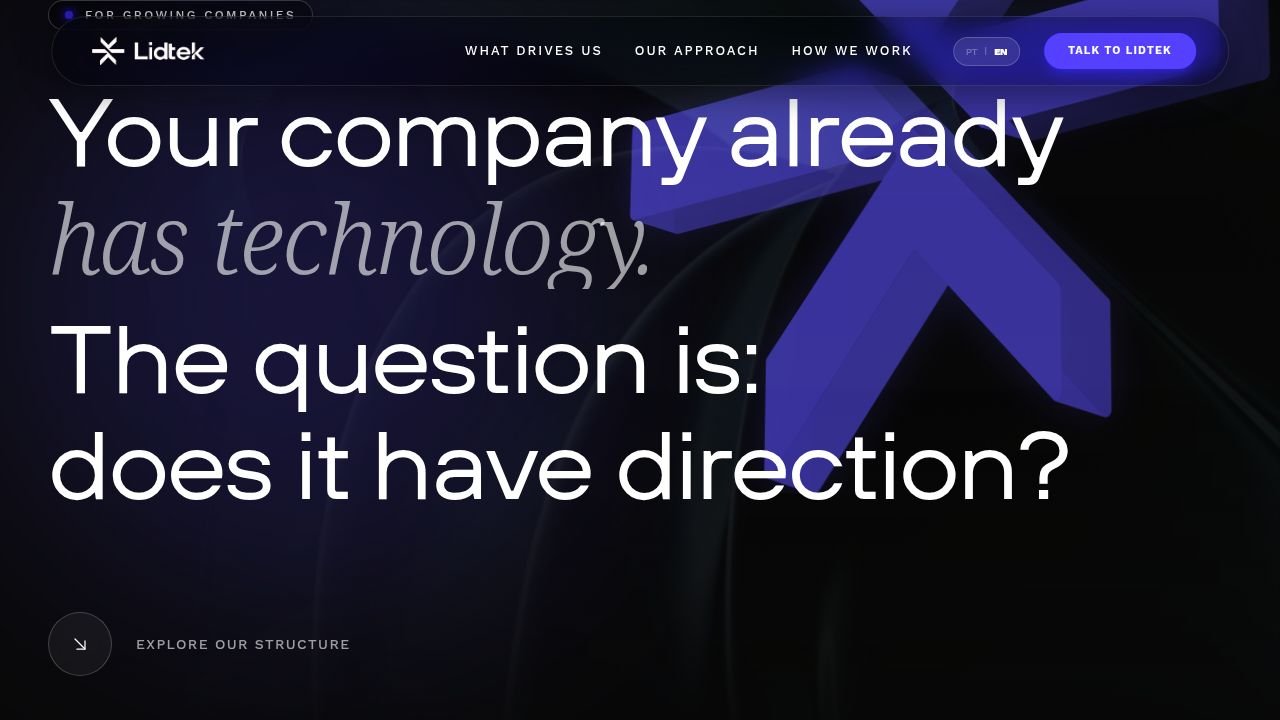
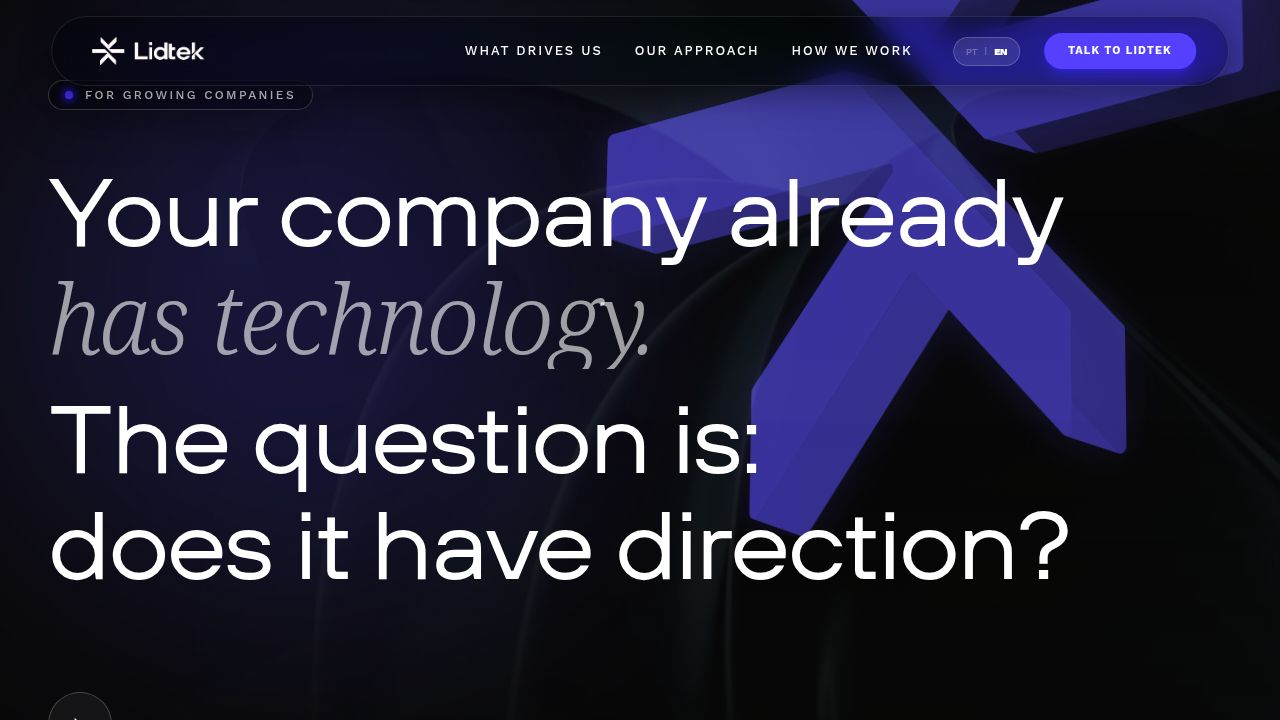
Adjust hero section height for better mobile viewing
Update hero section to use `min-h-[100svh]` for accurate viewport height calculation on mobile, resolving extra spacing issues.

Replit-Commit-Author: Agent
Replit-Commit-Session-Id: 7a7d0deb-fde8-4e8a-b92c-9d19e17863b1
Replit-Commit-Checkpoint-Type: full_checkpoint
Replit-Commit-Event-Id: b31ccfa1-8bb9-4b92-9244-737d8bbd6841
Replit-Commit-Screenshot-Url: https://storage.googleapis.com/screenshot-production-us-central1/1bd49003-f8b5-4081-a1ec-b8d74c53421b/7a7d0deb-fde8-4e8a-b92c-9d19e17863b1/u0uIqOV
Replit-Helium-Checkpoint-Created: true

diff --git a/client/src/components/sections/Hero.tsx b/client/src/components/sections/Hero.tsx
@@ -33,7 +33,7 @@ export function Hero() {
   }, [mouseX, mouseY]);
 
   return (
-    <section className="relative min-h-[100vh] md:min-h-[100svh] flex flex-col justify-center py-20 px-6 md:px-12 bg-background overflow-hidden">
+    <section className="relative min-h-[100svh] flex flex-col justify-center py-20 px-6 md:px-12 bg-background overflow-hidden">
       {/* Background Image - Pawel Czerwinski abstract glass */}
       <div className="absolute inset-0 z-0 overflow-hidden">
         <img 
